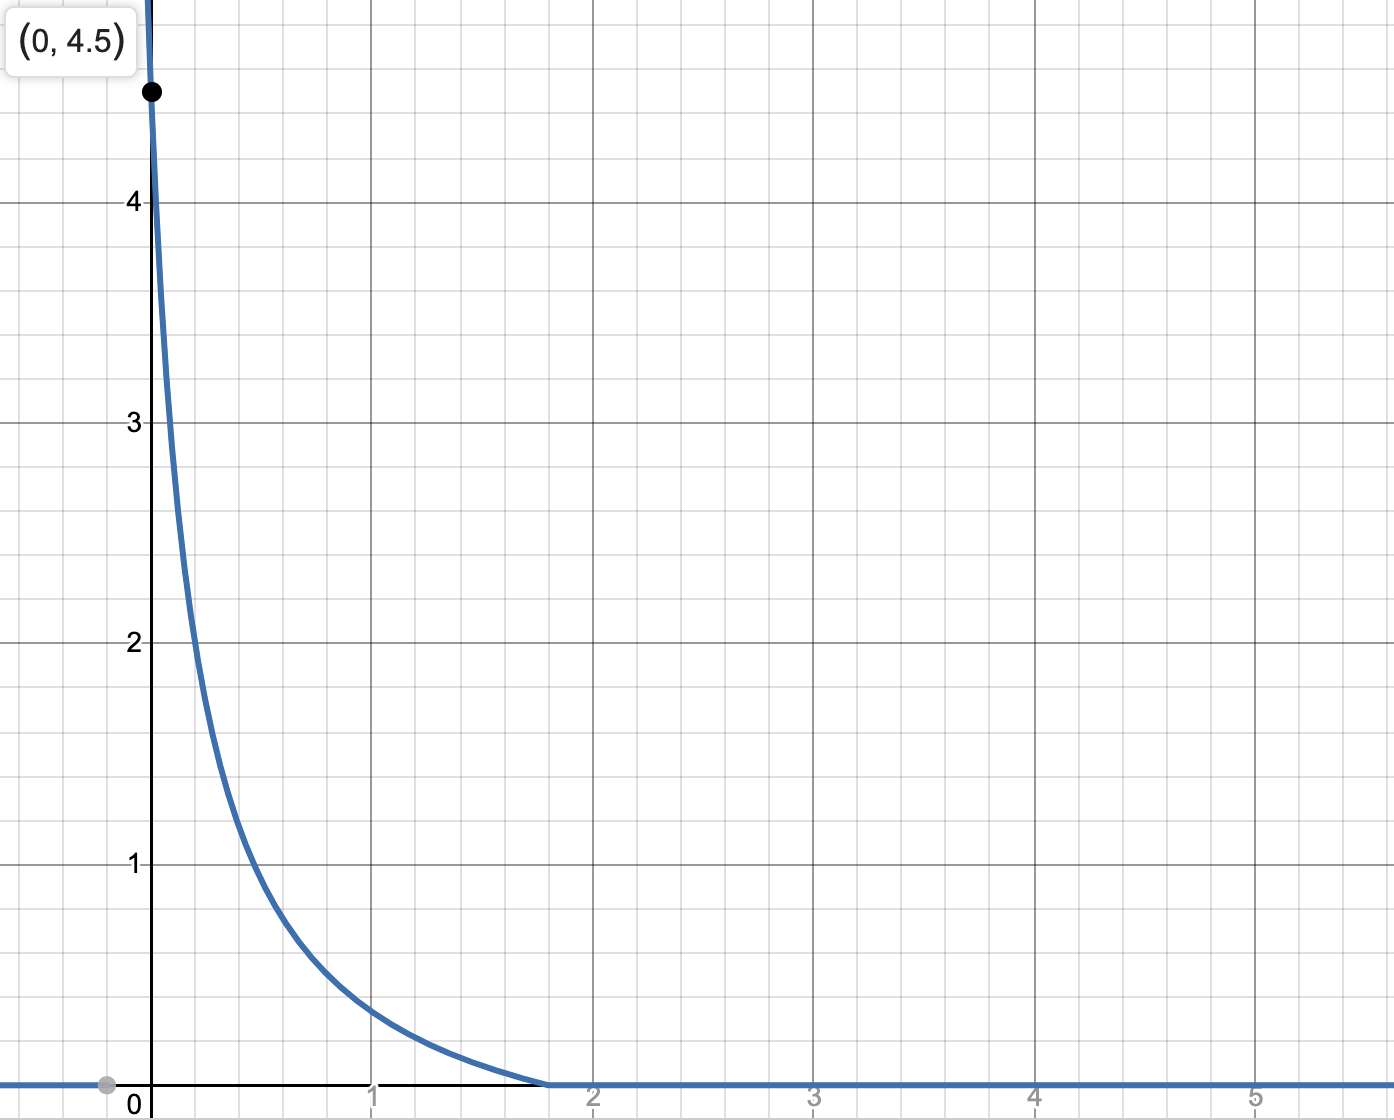
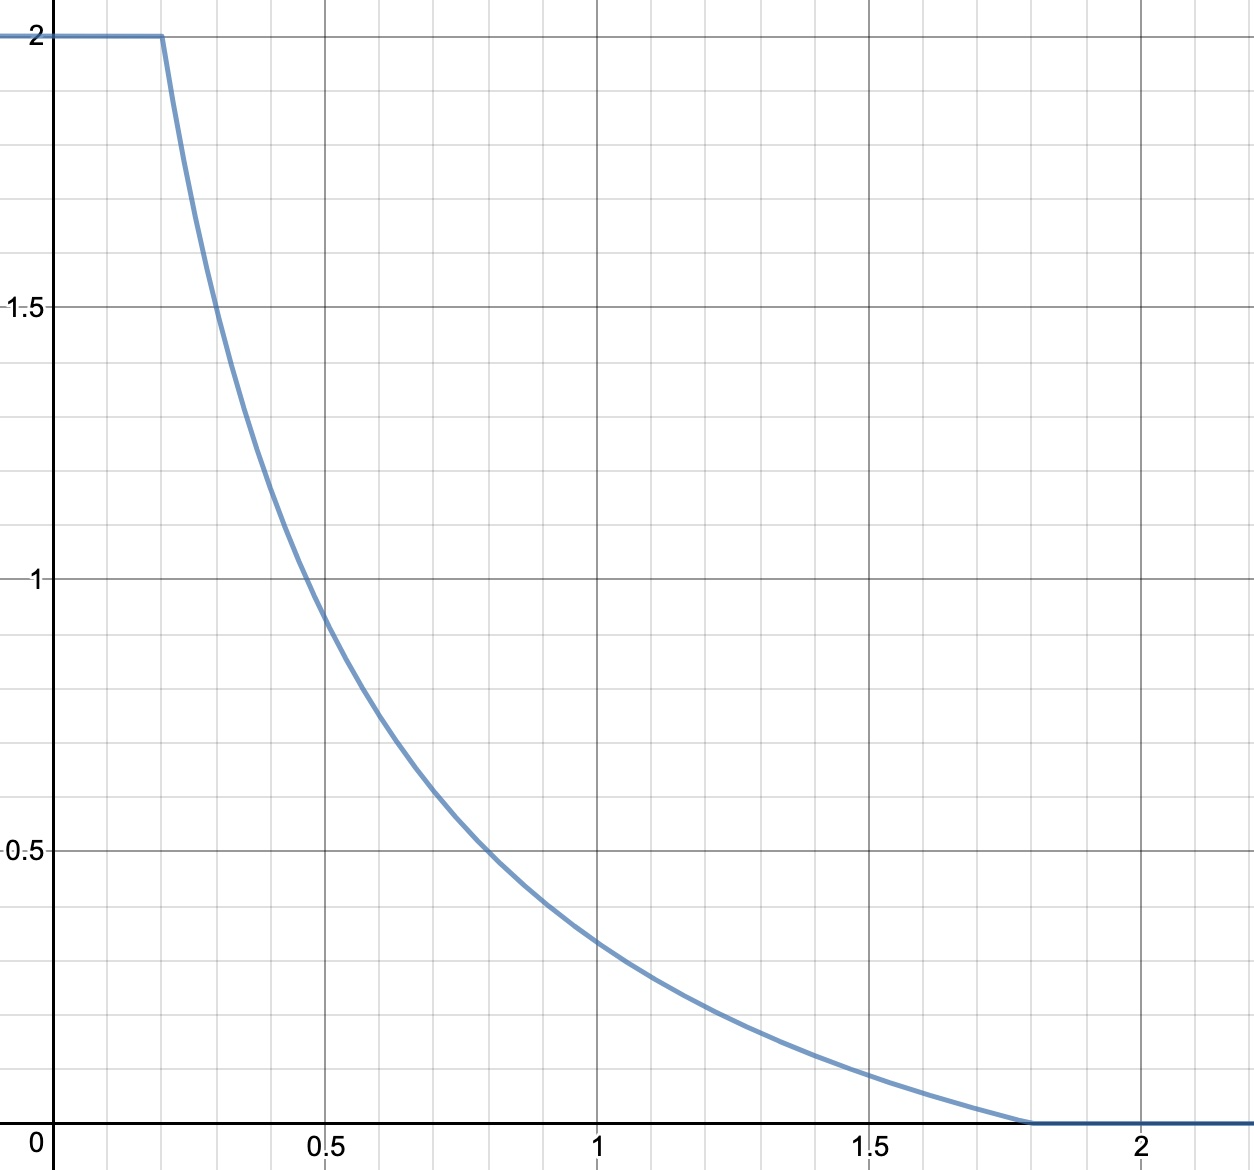
write chapter 5

Changed region(s): [[0.0, 0.0, 1.0, 1.0]]

diff --git a/whitepaper.md b/whitepaper.md
@@ -102,20 +102,93 @@ The nodes with a very good carbon footprint should be receiving a larger premium
 
 As we have seen the average footprint of all nodes is a better reference than a static reference as with time all nodes will improve, leaving the static reference behind. So we consider the average `Avg`:
 
-`Avg = 𝛴 F(n) / N ` where `N` is the number of enlisted nodes and `F(n)` the carbon footprint of node `n`.
+`Avg = 𝛴 F(n) / N ` where `N` is the number of enlisted nodes and `F(n)` the carbon footprint of node `n`.    
+To be noted that the value `F(n)` is a positive number (any carbon compensation setup would be ignored and an assessment of carbon footprint that would be negative wouldn't make sense). So `Avg` is a positive number.
 
 Then, we define the no unit `Ratio` to measure a form of distance of the current node footprint to the average:
 
 `Ratio = F(n) / Avg`.
 
-We then we say that a ratio that is 20% of the average will have a maximum reward to prevent a breakthrough to create too much desequilibrium in, the crypto creation. Also, a ratio that is too large (80% more than the average) will not earn any reward. So we can write the carbon reduction factor `CRF(n)` as follow:
+We then we say that a low ratio (below 20% of the average) will have a maximum reward (2 units) to prevent a breakthrough to create too much desequilibrium in, the crypto creation. Also, a ratio that is too large (80% more than the average) will not earn any reward. So we can write the carbon reduction factor `CRF(n)` as follow:
 
-`CRF(n) = Max(1 / (Ratio + 0.2) - 0.5, 0)` where `n` is the current node.    
-`CRF(n) = 0` when `Ratio = 1.8` or 80% more than the average.
+`CRF(n) = Min( Max(1 / (Ratio + 0.2) - 0.5, 0), 2)` where `n` is the current node.    
+`CRF(n) = 0` when `Ratio = 1.8` or 80% more than the average.   
+At the average (`Ratio = 1`) the reward is `1/3rd` of a unit.
 
-<img src="./images/CRF-function.png =100x100" width="200">
+<img src="./images/CRF-function.png" width="400">
 
-## 6. Monetary policy of the CTC crypto currency
+Finally :    
+**`CarbonReduction(n) = CRF(n) * 1 crypto unit`**
+
+### 5.2. The `AcceptNewSealers` reward
+
+Here the logic is to provide the early adopter nodes to get an incentive to accept new nodes n the consensus.    
+With the proof of authority consensus, each allowed nodes are expected to seal a block in a round robin way (each in turn). So, given that the blocks are created every `S` seconds (initially set to 4 seconds) it means that when new nodes are brought into the game, the average reward per unit of time will drop for the existing nodes.   
+
+A node `n` within `N` nodes will in average earn `1/3` every `N` blocks or `1/3N` per block in average.  
+
+When a new node is added into the consensus, the total number of nodes becomes `N+1` and the the node `n` will now earn in average `1/3 * 1/(N+1)` per block. 
+
+Therefore the node loses in average `1/3 * ( 1/N - 1/(N+1) )` per block over `N` block. 
+
+Adding yet another node (total `N+2` nodes), node `n` will now earn `1/3 * 1/(N+2)`, loosing `1/3 * [ 1/N - 1/(N+2) ]` per block. 
+
+The first node will therefore loses this amount for each new node being added, so theoretically in average `1/3 * 𝛴 (1/i - 1/(i+1))` per block which simplifies into `1/3 * (1 - 1/N)`
+
+So when its time for the node to seal a block, it should be granted an additional an amount that will at least compensate for the loss over the upcoming `N` blocks : `N/3 * (1 - 1/N)` or `1/3 * (N-1)`
+
+Finally, and to keep the rule simple enough, the nodes should be awarded an additional amount based on the number of nodes in the consensus that is calculated as:
+
+**`AcceptNewSealers() = (N-1) * 1/3 crypto unit`**
+
+### 5.3. The `GlobalInflationControl`
+
+With the above rules, the crypto currency creation is linear with a static number of nodes `N` as `N/3 crypto unit` per block in average.   
+Increasing the number of nodes will increase proportionnally the monetary creation and this will dillute the value making a inflationary market.
+
+It is therefore necessary at the start of the network to encourage nodes to join the consensus but once the network has reached a large enough number of nodes the crypto creation should progressively reduce.
+
+The logic here is to look at the amount of crypto created as the number of blocks since the start of the chain times the number of nodes (`b * N`).    
+The number of blocks will give a measure of time (with a 4 seconds delay between blocks, it is 8 000 000 blocks per year that are created).    
+The number of nodes gives an idea of the size of the network and its usage.   
+
+So we can propose a scheme when `b * N` reaches a level of a year equivalent with 30 nodes the creation of crypto is halved. When it reaches twice this (either because the nodes increase or time passes) the creation of crypto is halved again.
+
+The calculation will be as follow:
+```js
+L = (b * N) / (8 000 000 * 30) // as integer value
+D = 2^L // The divisor : 2 at the power of L
+GlobalInflationControl = 1/D // 1; 1/2; 1/4; 1/8 ....
+```
+
+Finally:
+
+**`GlobalInflationControl(b) = 1/2^(b*N/240e+6)`**
+
+### 5.4. The `GlobalInflationControl` alternative
+
+Another approach can be to more precisely control the amount of cryptocurrency created.
+Since the actual amount depends of the nodes footprint, the entry of nodes in the consensus, it will be necessary to keep track of the crypto creation.   
+
+Let's assume that there is a record in the blockchain of the total amount created `M` then the inflation can be controlled by a halving scheme based on `M`:
+
+We still consider the year worth of creation (8 millions blocks by a group of 30 nodes) that would generates `30 * 8 000 000 * 1/3 crypto units = 80 000 000 units`
+
+The calculation will be as follow:
+```js
+L = M / (8 000 000 * 30 / 3) // as integer value
+D = 2^L // The divisor : 2 at the power of L
+GlobalInflationControl = 1/D // 1; 1/2; 1/4; 1/8 ....
+```
+
+Finally:
+
+**`GlobalInflationControl(b) = 1/2^(M/80e+6)`**
+
+This approach would be more precise and will give better chances to the network to grow at its own pace that is difficult to estimate upfront. Also, it will give a better clarity to the market of this crypto currency of the actual evolution of the amount of currency.
+
+## 6. Monetary policy of the `GRN` crypto currency
+
 
 ## 7. Implementing the consensus
 
